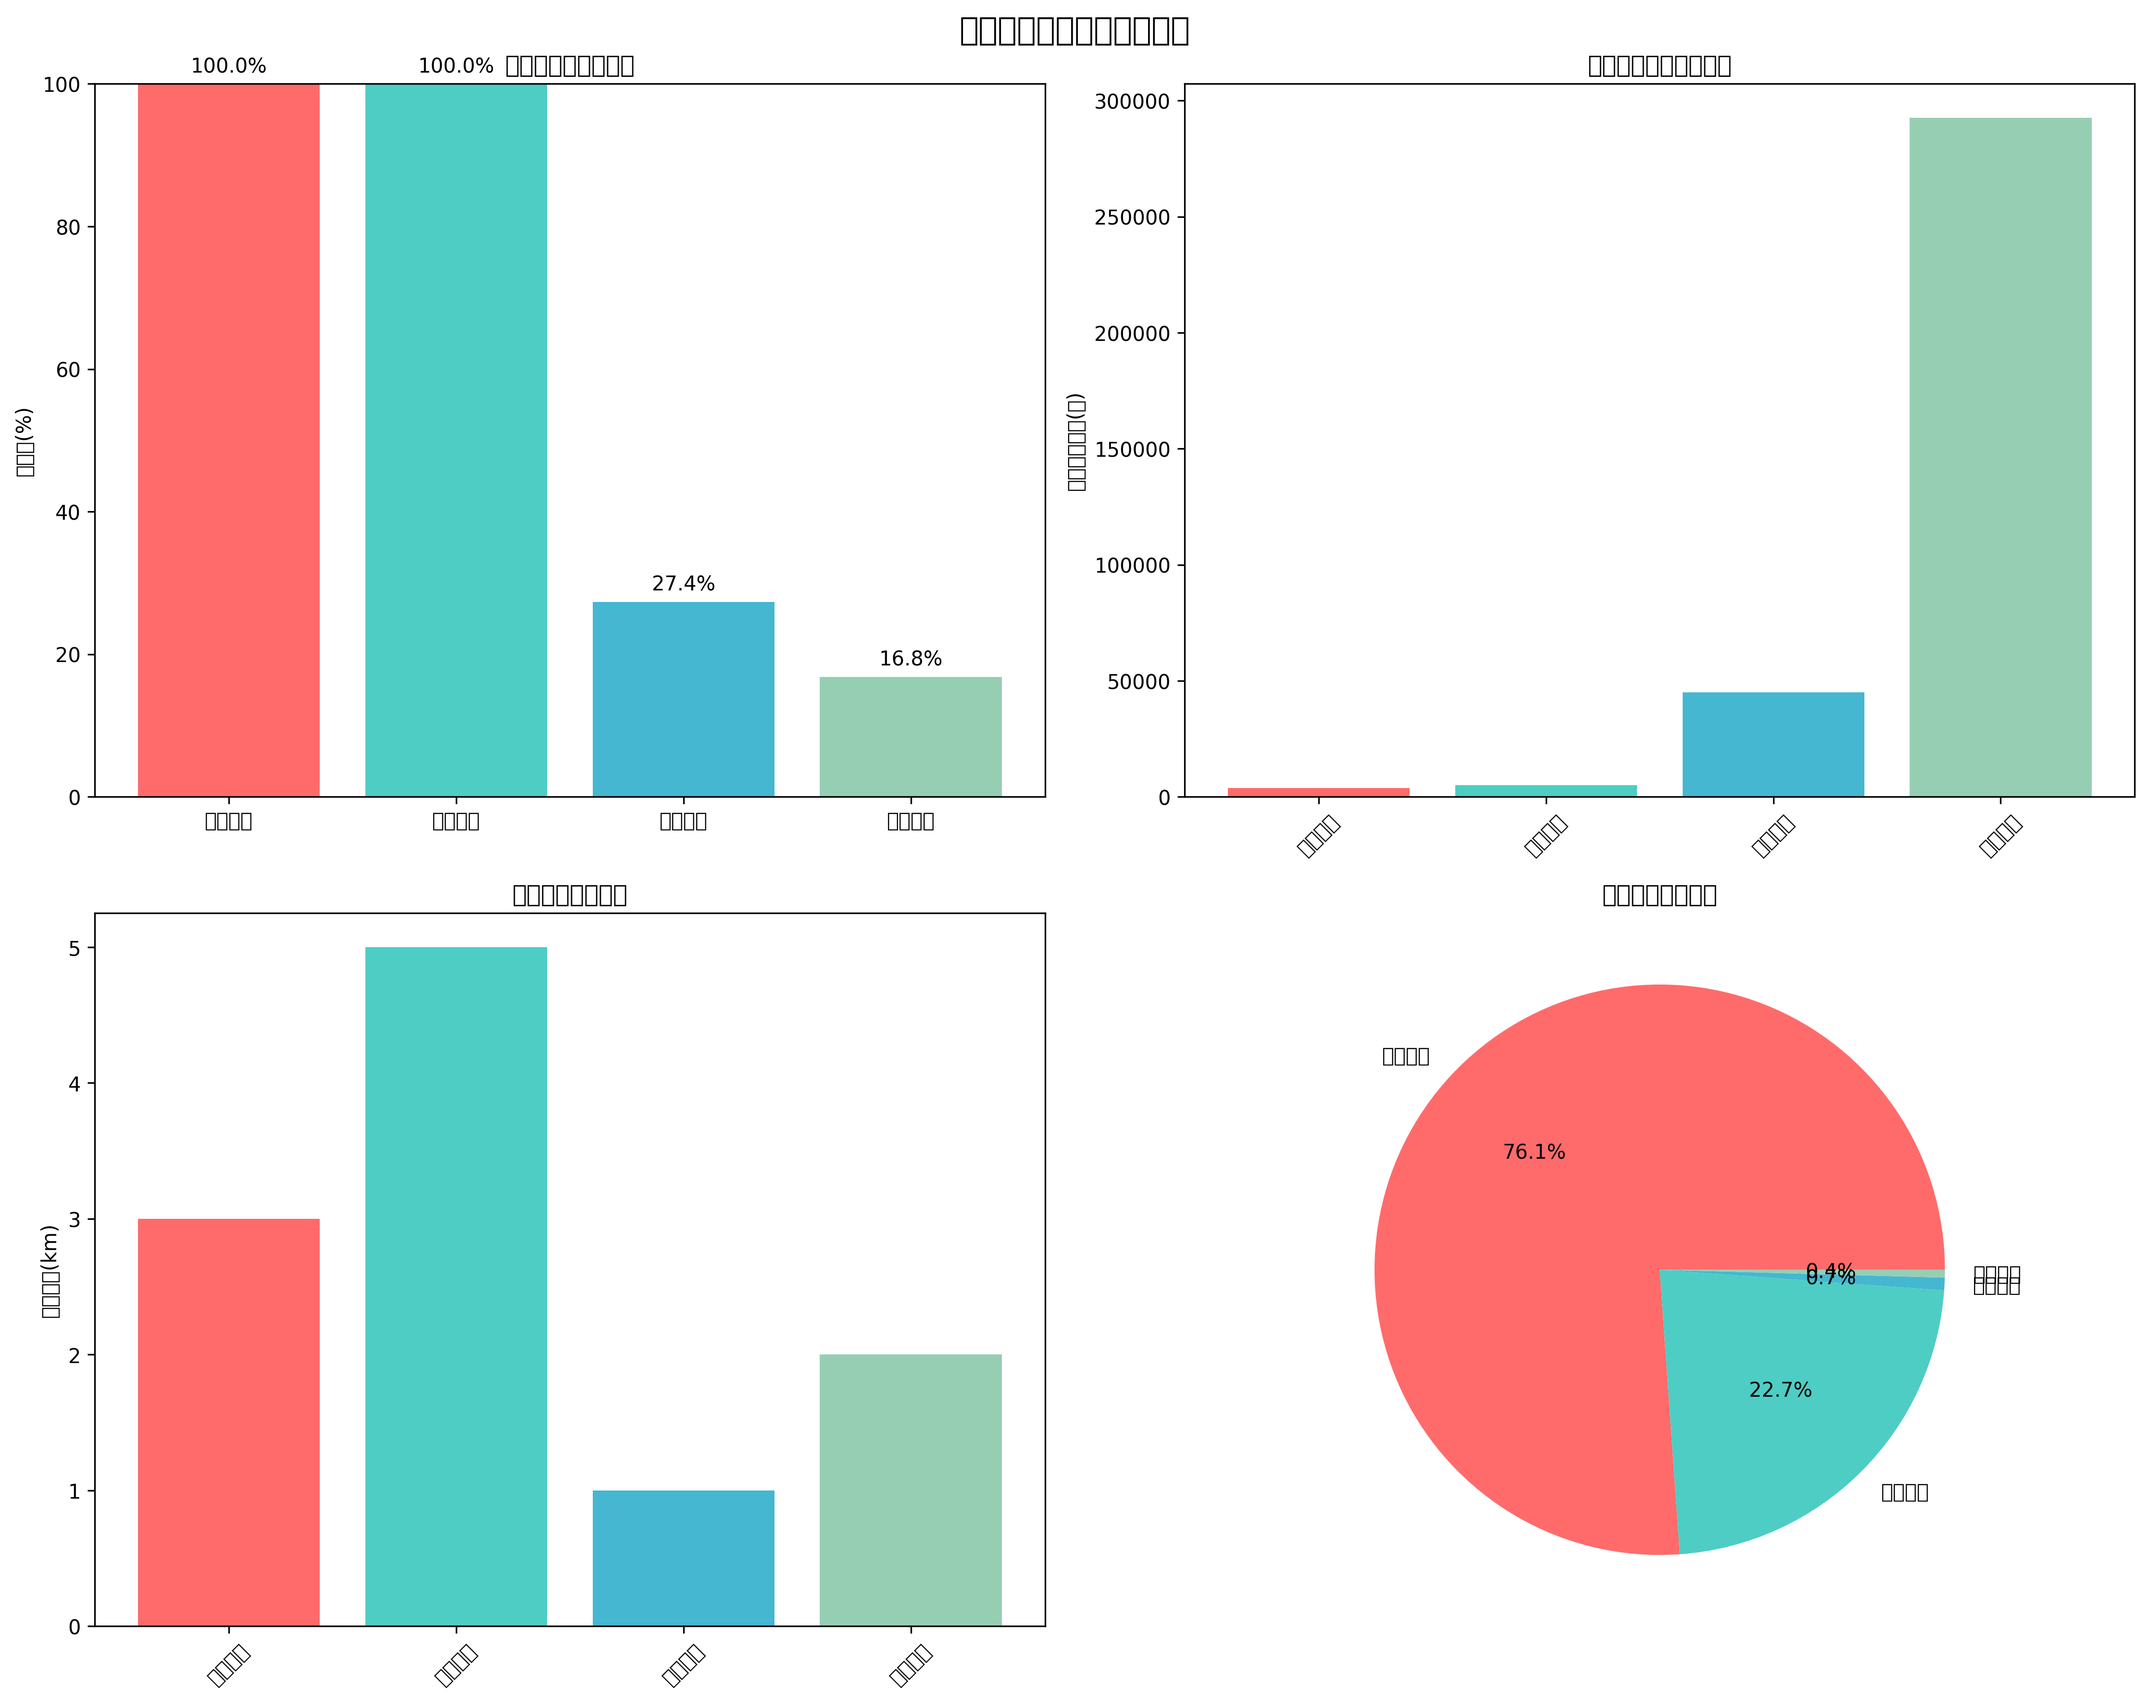
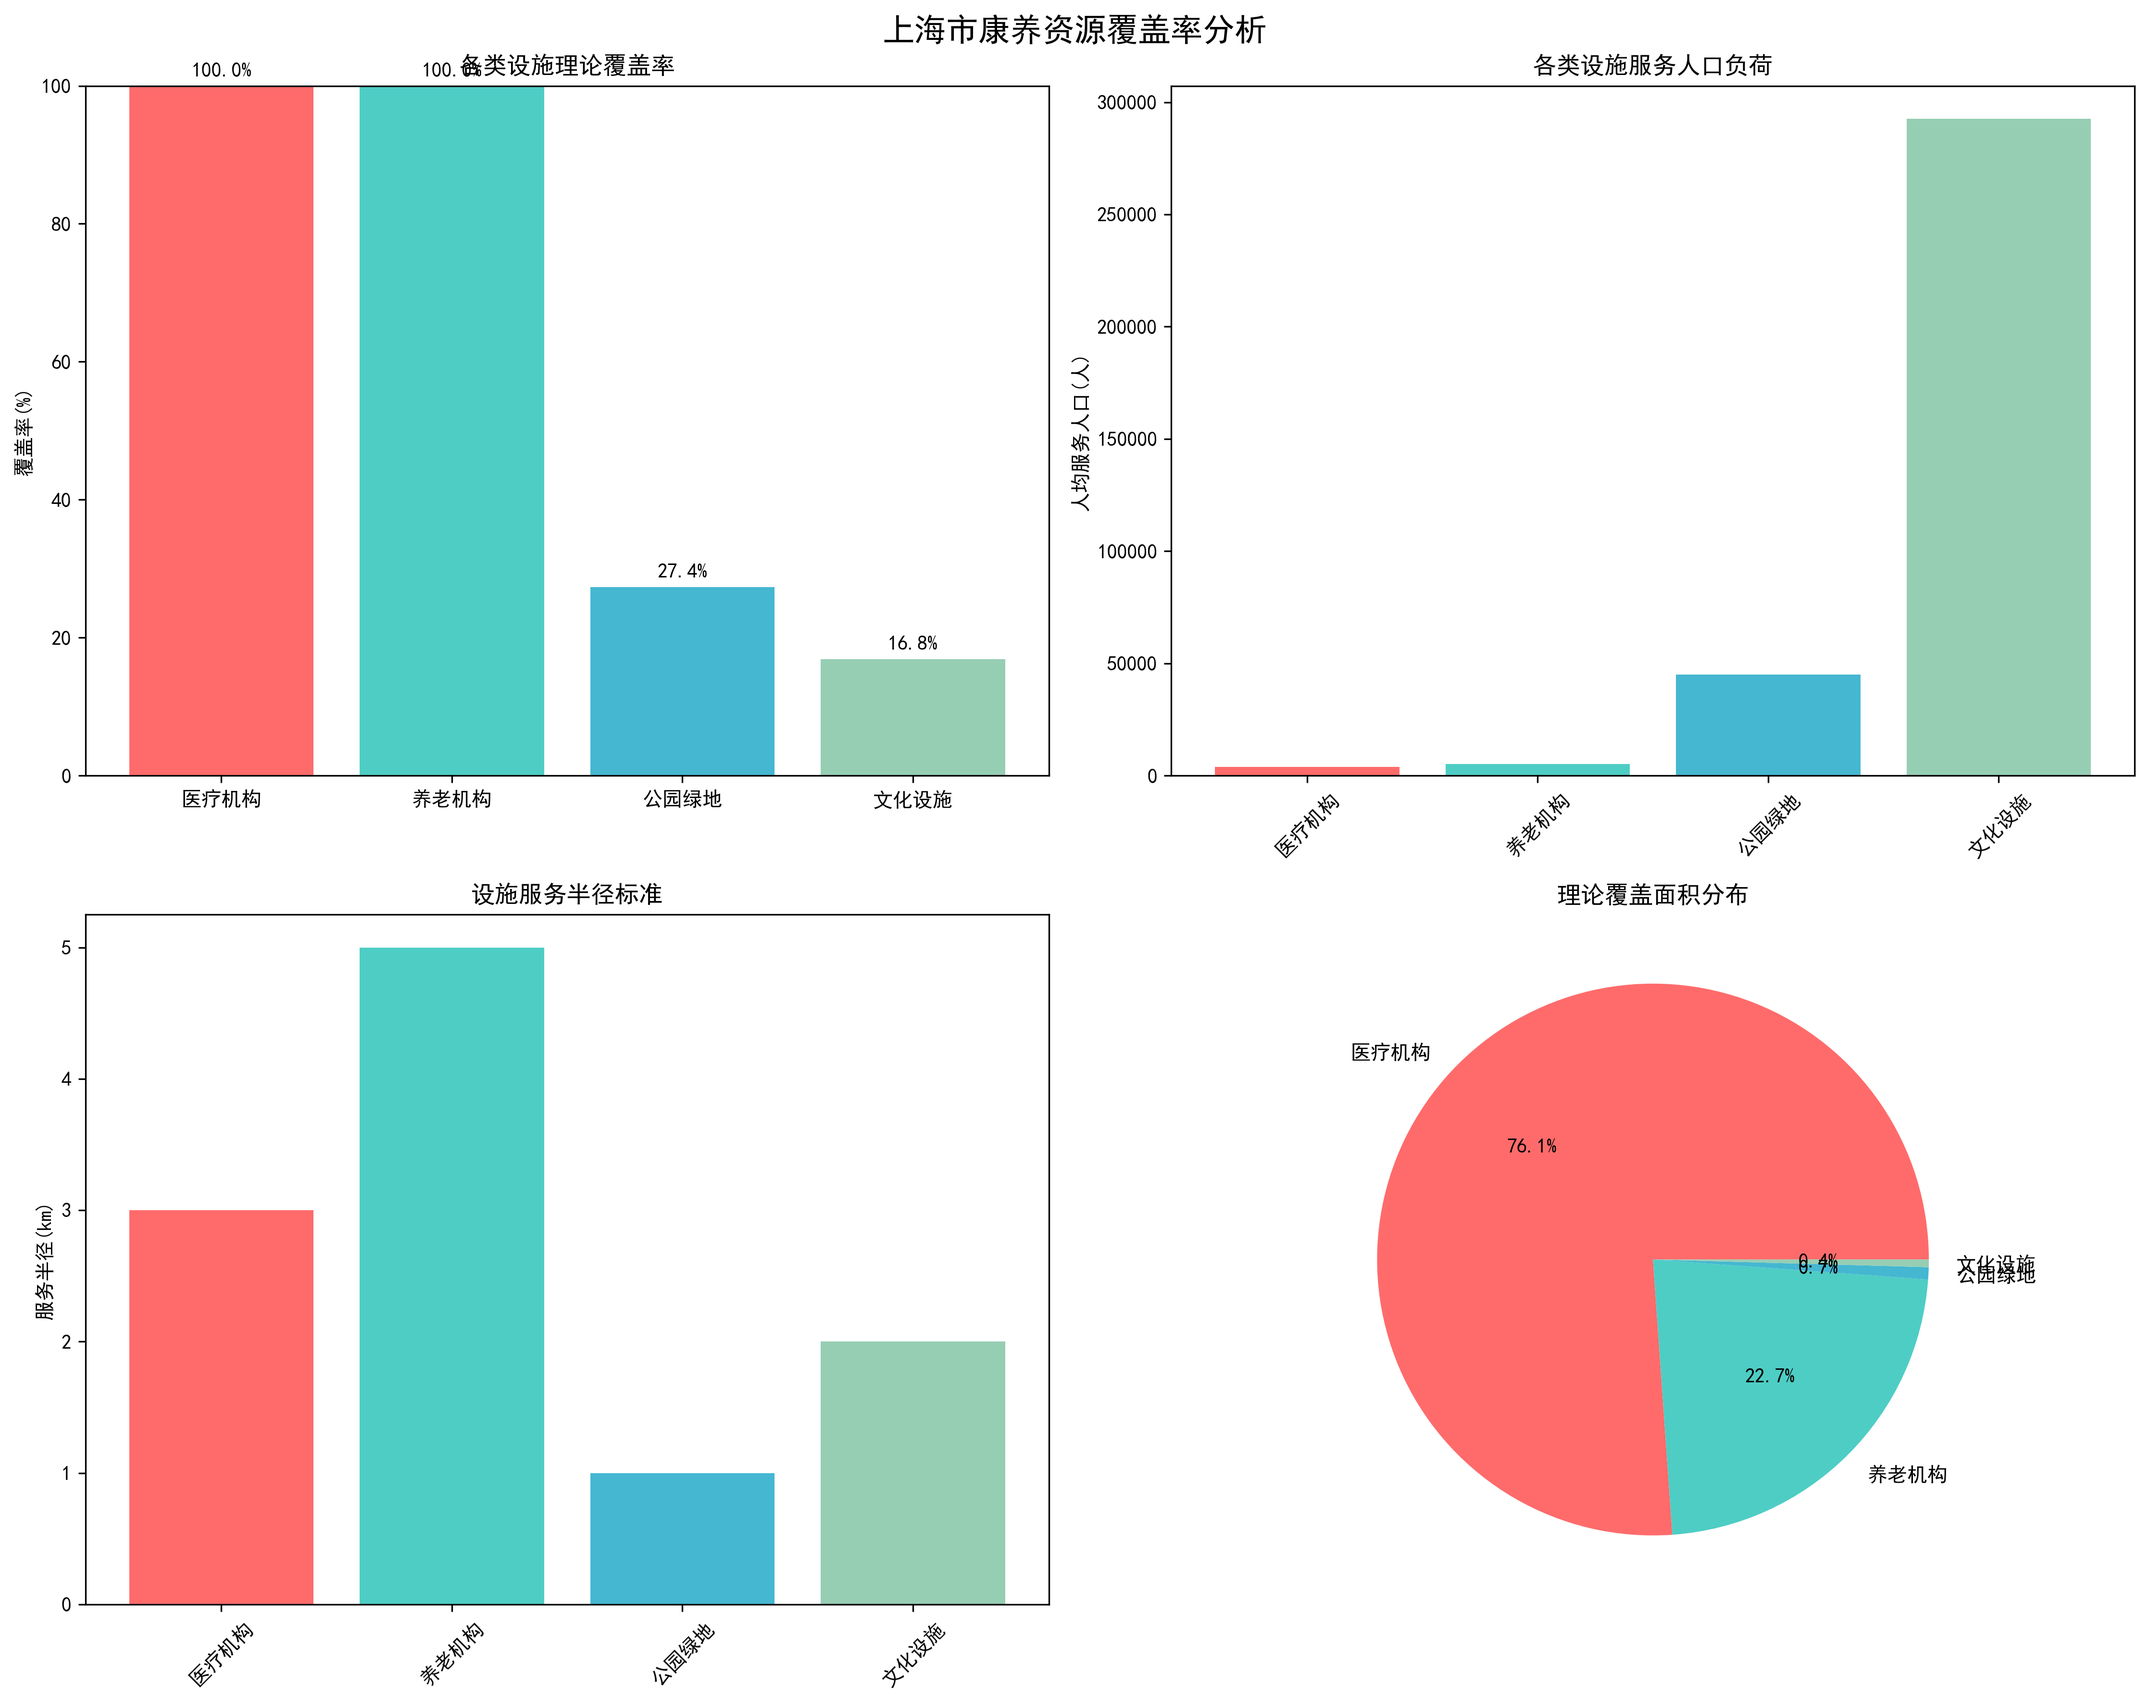
style(P1): 更新图表字体设置以支持中文显示
修改了P1.py文件中的plt.rcParams配置，添加了SimHei字体设置，确保图表中的中文能够正确显示，并解决负号显示问题。

diff --git a/CYCMCM-2025/P1.py b/CYCMCM-2025/P1.py
@@ -14,6 +14,9 @@ import warnings
 import os
 warnings.filterwarnings('ignore')
 
+plt.rcParams['font.sans-serif'] = ['SimHei']
+plt.rcParams['axes.unicode_minus'] = False
+
 class KangYangResourceAnalysis:
     def __init__(self):
         self.population_data = None
